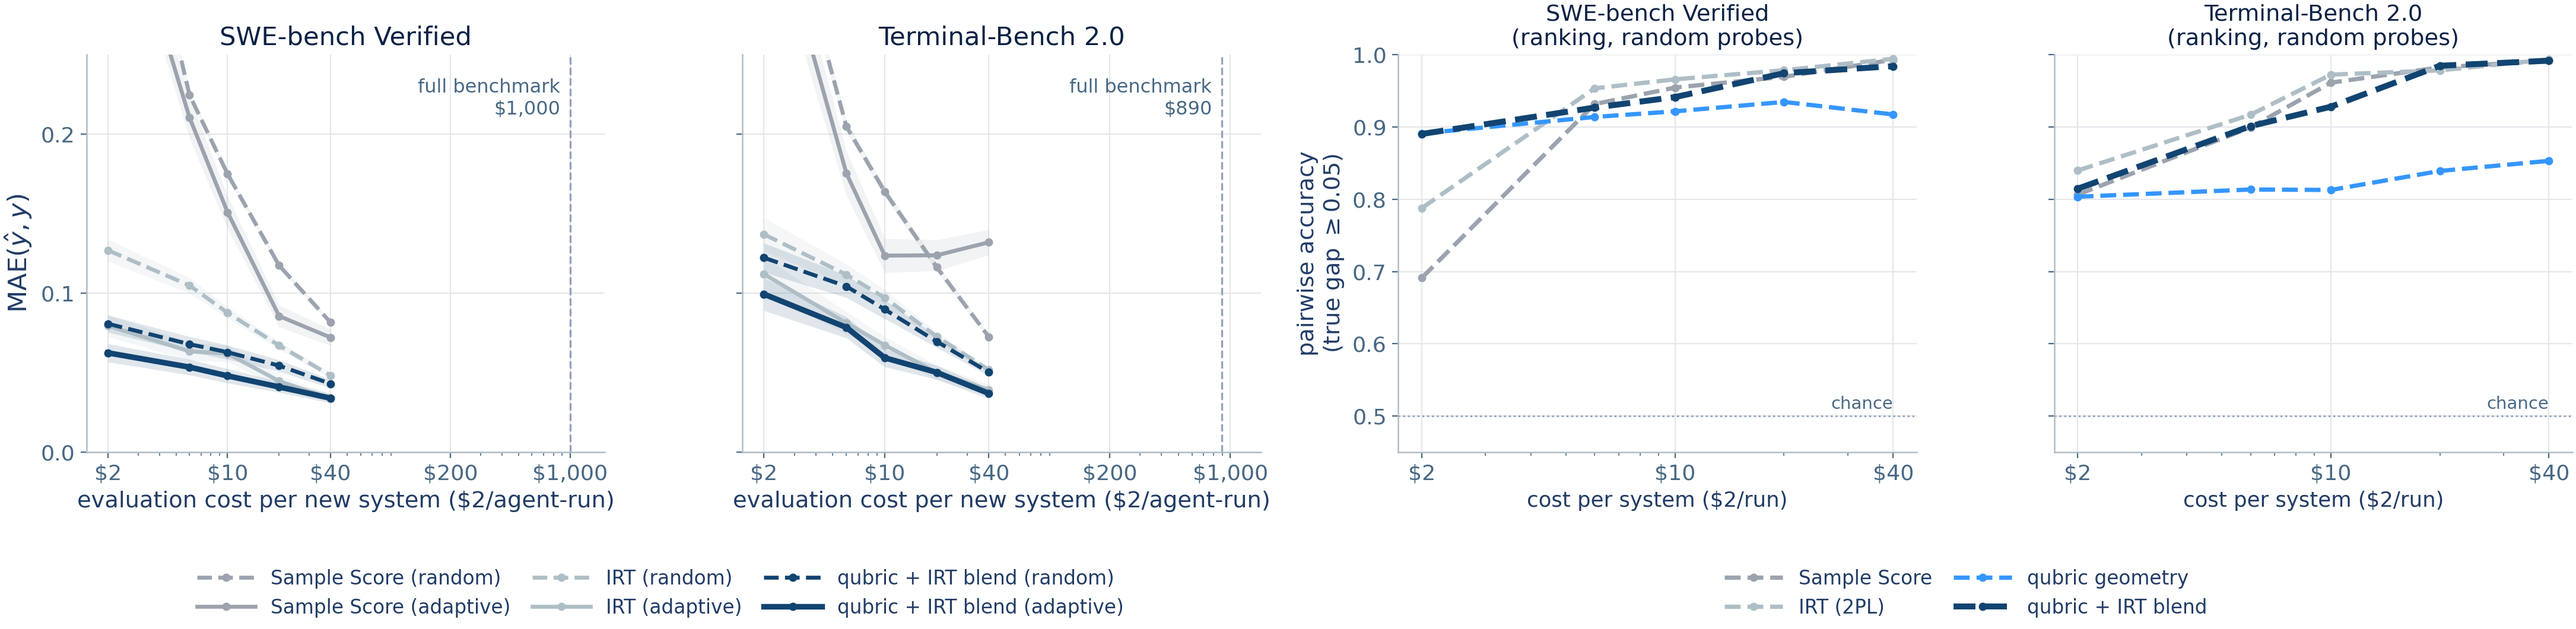
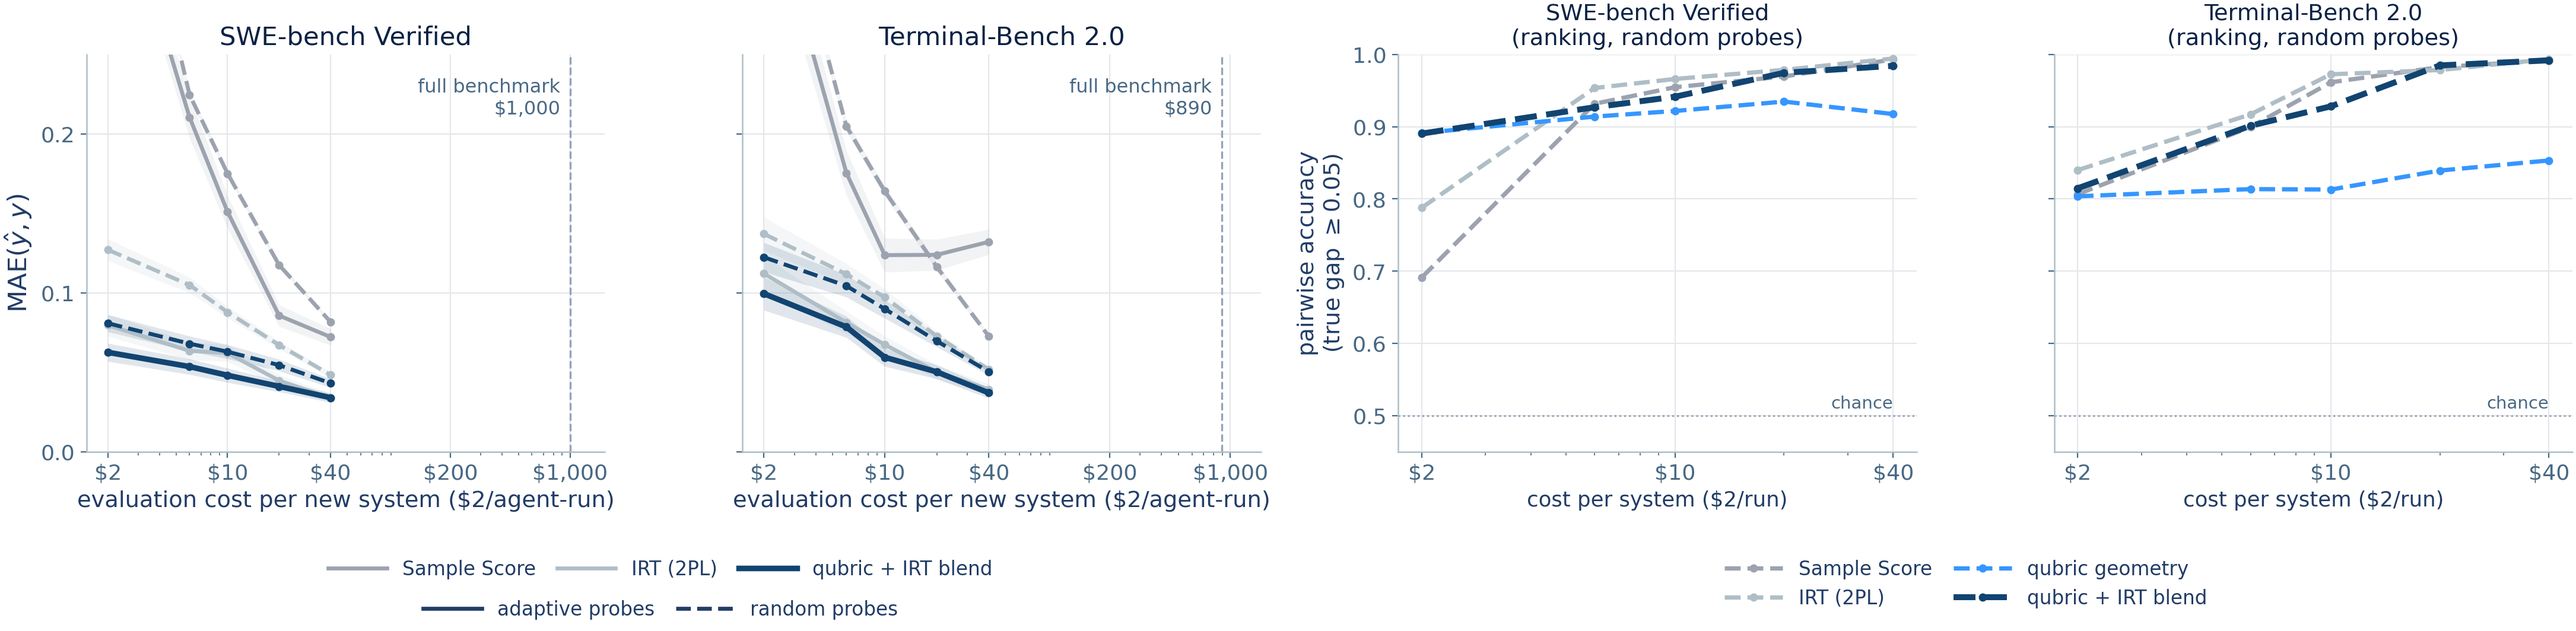
cost figure: orthogonal split legends (method color x probe regime linestyle)
Claude-Session: https://claude.ai/code/session_01RGusFFXzoPTkSKgzzDLjNv

diff --git a/scripts/fig_cost.py b/scripts/fig_cost.py
@@ -53,19 +53,19 @@ def main():
         # in this figure line style encodes the probe regime:
         # dashed = random probes, solid = adaptive probes
         curves = [
-            (rand, 'sample', 'Sample Score (random)', 'baseline_gray', '--'),
-            (adap, 'sample', 'Sample Score (adaptive)', 'baseline_gray', '-'),
-            (rand, 'irt', 'IRT (random)', 'baseline_pale', '--'),
-            (adap, 'irt', 'IRT (adaptive)', 'baseline_pale', '-'),
-            (rand, 'blend', 'qubric + IRT blend (random)', 'anchor', '--'),
-            (adap, 'blend', 'qubric + IRT blend (adaptive)', 'anchor', '-'),
+            (rand, 'sample', 'baseline_gray', '--'),
+            (adap, 'sample', 'baseline_gray', '-'),
+            (rand, 'irt', 'baseline_pale', '--'),
+            (adap, 'irt', 'baseline_pale', '-'),
+            (rand, 'blend', 'anchor', '--'),
+            (adap, 'blend', 'anchor', '-'),
         ]
-        for src, key, label, role, ls in curves:
+        for src, key, role, ls in curves:
             st = hv_style.ROLES[role]
             lw = 3.4 if role == 'anchor' and ls == '-' else 2.4
             mae, sem = series(src, key)
             ax.plot(cost, mae, color=st['color'], ls=ls, lw=lw,
-                    marker='o', ms=4, label=label,
+                    marker='o', ms=4,
                     zorder=4 if role == 'anchor' else 3)
             ax.fill_between(cost, mae - sem, mae + sem, color=st['color'],
                             alpha=.13, lw=0, zorder=2)
@@ -121,14 +121,26 @@ def main():
                        fontsize=SZ['subtitle'])
     axes[3].set_yticklabels([])
 
-    # split legends: MAE series under panels 1-2, ranking series under 3-4
-    h1, l1 = axes[0].get_legend_handles_labels()
+    # split legends (orthogonal factors): method (color) + probe regime
+    # (line style) under panels 1-2; ranking methods under panels 3-4
+    from matplotlib.lines import Line2D
+    ink = hv_style.INK
+    meth = [Line2D([], [], color=hv_style.ROLES[r]['color'], lw=lw_,
+                   label=lab) for r, lw_, lab in
+            (('baseline_gray', 2.4, 'Sample Score'),
+             ('baseline_pale', 2.4, 'IRT (2PL)'),
+             ('anchor', 3.4, 'qubric + IRT blend'))]
+    reg = [Line2D([], [], color=ink, lw=2.4, ls='-', label='adaptive probes'),
+           Line2D([], [], color=ink, lw=2.4, ls='--', label='random probes')]
     h2, l2 = axes[2].get_legend_handles_labels()
-    fig.legend(h1, l1, fontsize=SZ['legend'] - 2, handlelength=3.0,
-               loc='upper center', bbox_to_anchor=(0.26, 0.02), ncol=3,
+    fig.legend(handles=meth, fontsize=SZ['legend'] - 2, handlelength=3.0,
+               loc='upper center', bbox_to_anchor=(0.26, 0.035), ncol=3,
+               columnspacing=1.1, frameon=False)
+    fig.legend(handles=reg, fontsize=SZ['legend'] - 2, handlelength=3.0,
+               loc='upper center', bbox_to_anchor=(0.26, -0.035), ncol=2,
                columnspacing=1.1, frameon=False)
     fig.legend(h2, l2, fontsize=SZ['legend'] - 2, handlelength=3.0,
-               loc='upper center', bbox_to_anchor=(0.76, 0.02), ncol=2,
+               loc='upper center', bbox_to_anchor=(0.76, 0.035), ncol=2,
                columnspacing=1.1, frameon=False)
     fig.tight_layout(rect=(0, 0.05, 1, 1))
     fig.savefig('figures/fig_cost.png', dpi=200, bbox_inches='tight',
